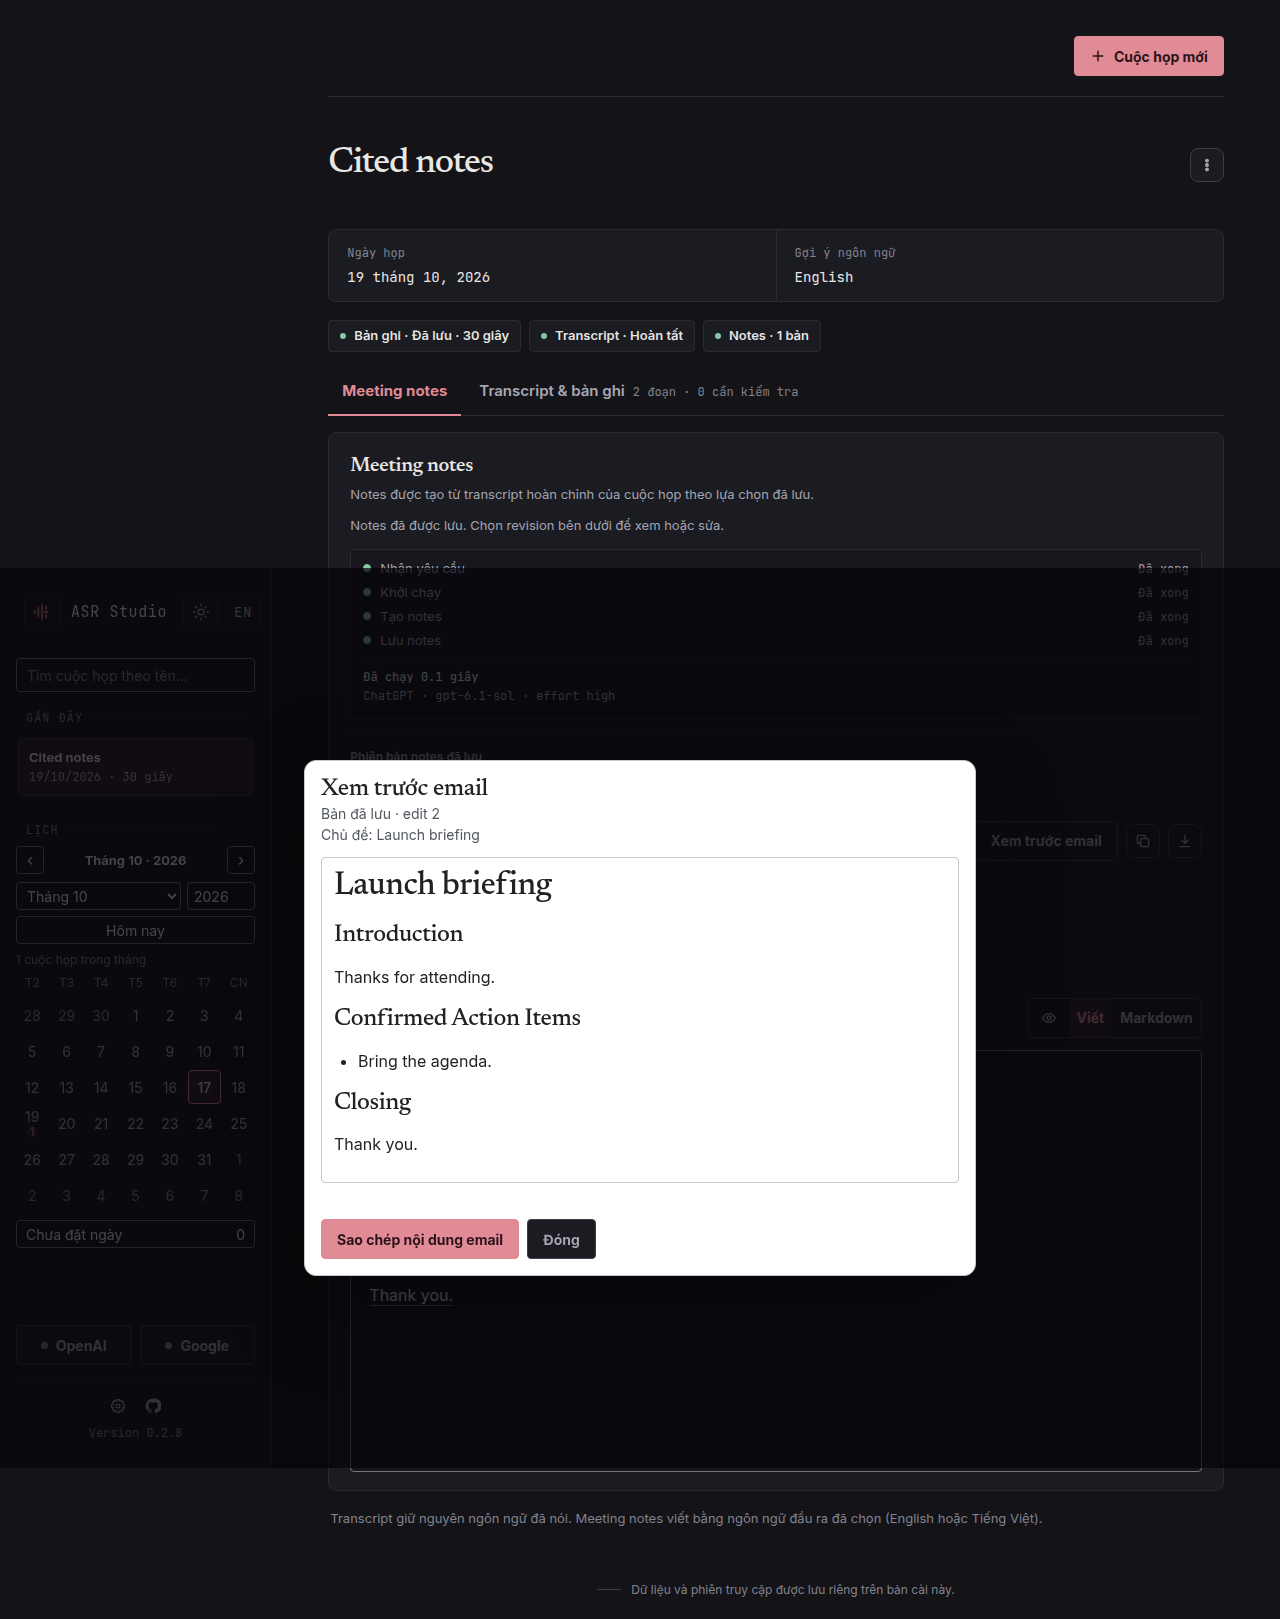
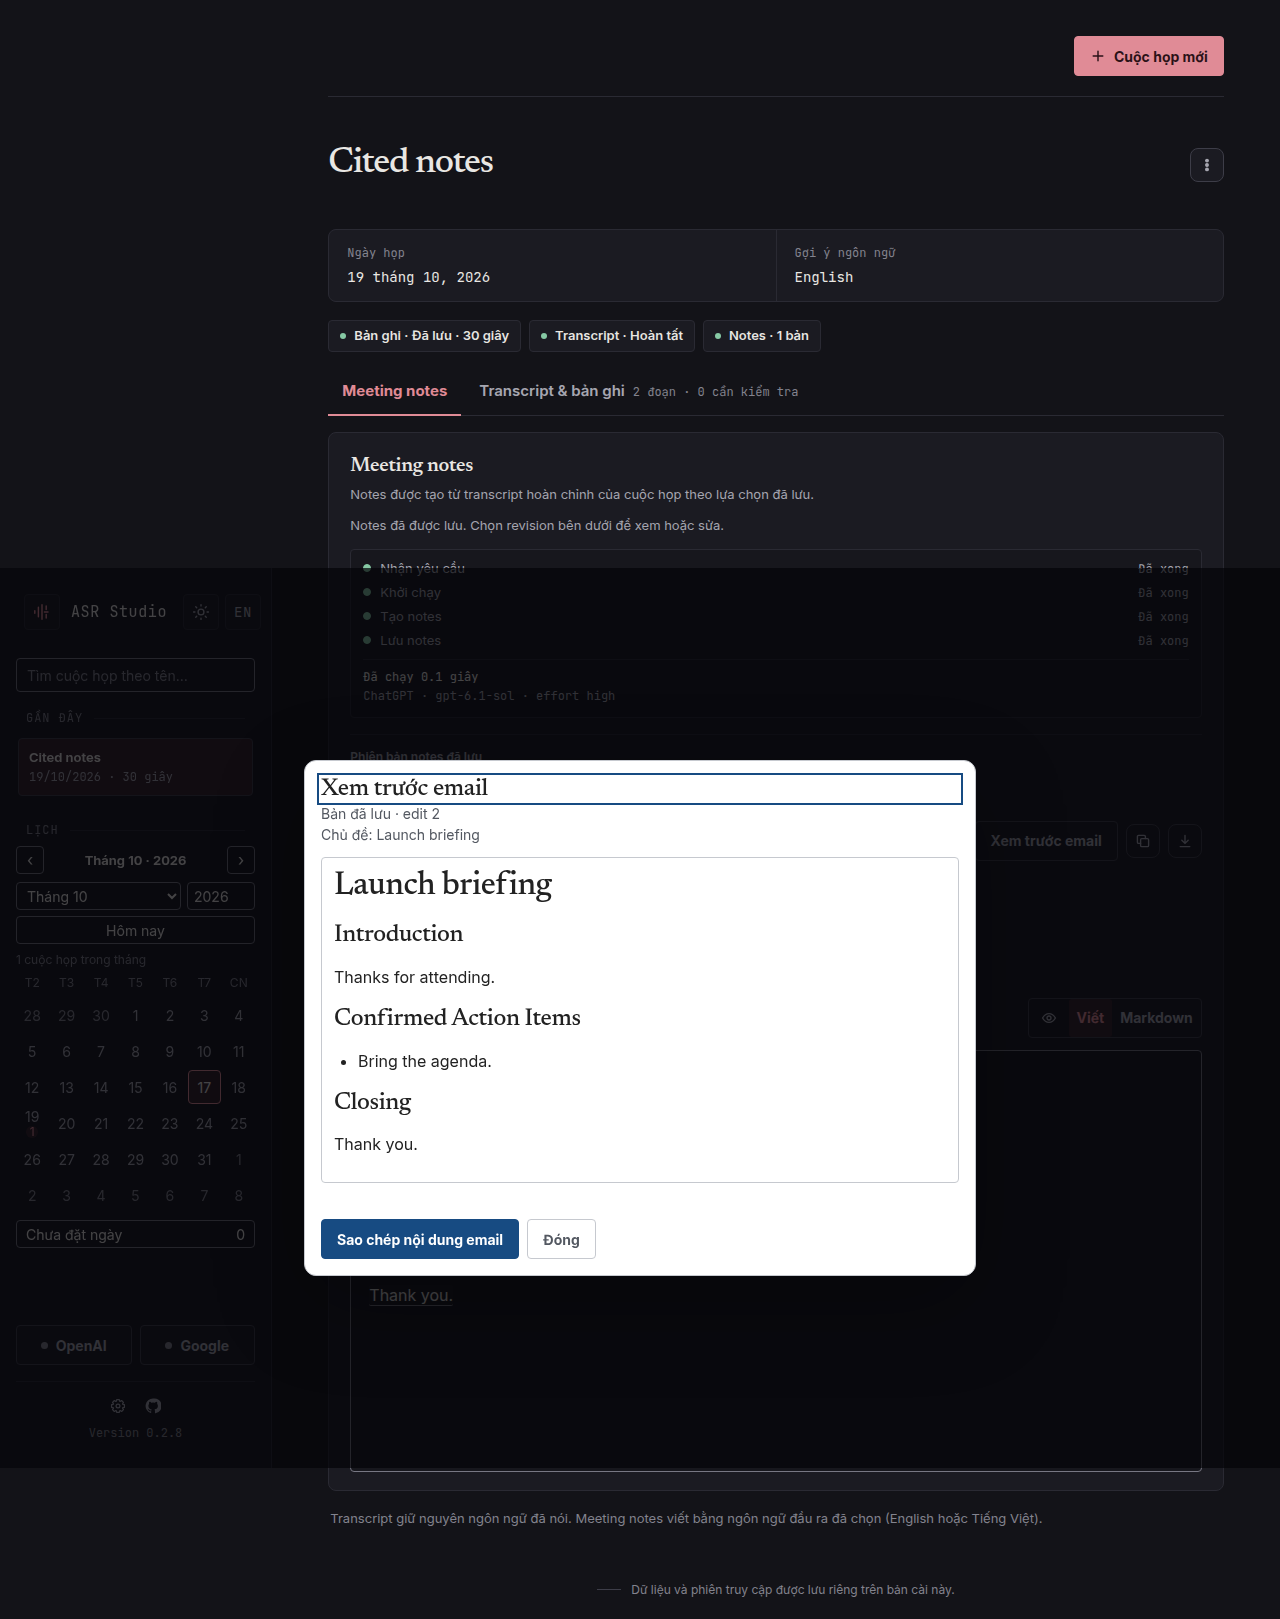
Harden issue 256 rich note preservation

Changed region(s): [[0.25, 0.7412, 0.4688, 0.803]]

diff --git a/src/asr_studio/web/notes-core.js b/src/asr_studio/web/notes-core.js
@@ -424,7 +424,7 @@ const referenceKey = (reference) => `${reference.meetingId}\u0000${reference.sna
 // shows none and never another bullet's. Each entry is used once, in order. Identical bullets cannot
 // be told apart, so a text keeps its chips only while the notes hold as many bullets with it as they
 // were made with: once one was edited or removed, or another was edited into a copy, none keeps a chip.
-const citationBoundary = "\u0000";
+const citationIgnore = "\u0001";
 
 function citedBullets(lines, citations) {
   const found = new Map();
@@ -442,8 +442,7 @@ function citedBullets(lines, citations) {
   const counts = new Map();
   let section = "";
   lines.forEach((line, index) => {
-    if (line === citationBoundary) {
-      section = `${citationBoundary}${index}`;
+    if (line === citationIgnore) {
       return;
     }
     const heading = line.match(/^(#{1,6})\s+(.+)$/);
@@ -451,7 +450,7 @@ function citedBullets(lines, citations) {
       section = heading[2].trim();
       return;
     }
-    const bullet = line.match(/^\s*[-*]\s+(.+)$/);
+    const bullet = line.match(/^ {0,3}[-*] +([^ ].*)$/);
     if (!bullet) return;
     const key = keyOf(section, bullet[1].trim());
     bullets.push({ index, key });
@@ -690,8 +689,10 @@ function markdownBlocks(markdown, revision, origin, presentation = "rich") {
   const raw = (start, end, { viewLines = false, citable = false } = {}) => {
     if (citable) {
       for (let index = start; index < end; index++) citationLines[index] = line(index);
-    } else if (!citationLines[start]) {
-      citationLines[start] = citationBoundary;
+    } else {
+      for (let index = start; index < end; index++) {
+        if (!citationLines[index]) citationLines[index] = citationIgnore;
+      }
     }
     const block = { kind: "raw", text: markdown.slice(lines[start].offset, lines[end - 1].offset + line(end - 1).length) };
     if (viewLines && presentation === "view") {
@@ -800,7 +801,11 @@ function markdownBlocks(markdown, revision, origin, presentation = "rich") {
     // Keep setext headings, reference definitions, HTML, multiline hard breaks and
     // GFM syntax outside the supported profile visible in their original spelling.
     const paragraph = lines.slice(index, end);
-    const hardBreak = paragraph.some(({ text: value }) => /(?: {2,}|\\)$/.test(value));
+    const hardBreak = paragraph.some(({ text: value }) => {
+      if (/ {2,}$/.test(value)) return true;
+      const backslashes = value.match(/\\+$/)?.[0] || "";
+      return backslashes.length % 2 === 1;
+    });
     if (unsupported || hardBreak || paragraph.some(({ text: value }) => /^ {0,3}[=-]+ *$/.test(value))) {
       blocks.push(raw(index, end, { viewLines: !unsupported && hardBreak }));
     } else {
@@ -849,6 +854,55 @@ function sharedEdges(before, after) {
   return [first, tail];
 }
 
+function sourceOffsets(node, source) {
+  if (node.kind === "code") return Array.from({ length: source.length + 1 }, (_, index) => index);
+  const offsets = [0];
+  for (let index = 0; index < source.length;) {
+    let end = index + 1;
+    if (source[index] === "\\" && escapedPunctuation.test(source[index + 1] || "")) end += 1;
+    else {
+      const space = source.slice(index).match(/^&#(?:32|9);/);
+      if (space) end = index + space[0].length;
+    }
+    offsets.push(end);
+    index = end;
+  }
+  return offsets;
+}
+
+function normalizeInteriorTrailingSpaces(source, raw, offsets, display, appended) {
+  if (!appended.trim()) return source;
+  const trailing = display.match(/[ \t]+$/)?.[0] || "";
+  if (!trailing) return source;
+  const first = display.length - trailing.length;
+  const encodedStart = offsets[first];
+  const encodedEnd = offsets[display.length];
+  const encoded = raw.slice(encodedStart, encodedEnd);
+  if (!/^(?:&#32;|&#9;)+$/.test(encoded)) return source;
+  const literal = encoded.replace(/&#32;/g, " ").replace(/&#9;/g, "\t");
+  return source.slice(0, encodedStart) + literal + source.slice(encodedEnd);
+}
+
+function richBlockShape(block) {
+  switch (block.kind) {
+    case "heading": return { kind: block.kind, level: block.level, nodes: block.nodes.length };
+    case "paragraph": return { kind: block.kind, lines: block.lines.map((line) => line.length) };
+    case "list": return { kind: block.kind, start: block.start, items: block.items.map((item) => item.nodes.length) };
+    case "table": return { kind: block.kind, align: block.align, rows: block.rows.map((row) => row.length) };
+    default: return { kind: block.kind };
+  }
+}
+
+function richStructureMatches(before, after, changedIndex, value) {
+  if (before.length !== after.length) return false;
+  if (before.some((block, index) => JSON.stringify(richBlockShape(block)) !== JSON.stringify(richBlockShape(after[index])))) return false;
+  const beforeNodes = before.flatMap(blockRuns);
+  const afterNodes = after.flatMap(blockRuns);
+  if (beforeNodes.length !== afterNodes.length) return false;
+  return beforeNodes.every((node, index) => node.kind === afterNodes[index].kind
+    && afterNodes[index].text === (index === changedIndex ? value : node.text));
+}
+
 // Textareas expose LF even when the server stores CRLF or CR. Keep separators in
 // the untouched prefix and suffix and use the document's separator for inserted lines.
 function rawTextareaEdit(markdown, value) {
@@ -866,24 +920,33 @@ function rawTextareaEdit(markdown, value) {
     + markdown.slice(offsets[before.length - tail]);
 }
 
-function escapeRichValue(value, node, markdown) {
+function escapeRichValue(value, node, markdown, { edgeStart = false, edgeEnd = false, tableCell = false } = {}) {
   if (node.kind === "code") return /[`\r\n]/.test(value) ? null : value;
-  const syntax = "\\`*_[]<>~&|";
-  let escaped = [...value].map((char) => syntax.includes(char) ? `\\${char}` : char).join("").replace(/\t/g, "&#9;");
-  const lineStart = markdown.lastIndexOf("\n", node.start - 1) + 1;
-  const atLineStart = markdown.slice(lineStart, node.start) === "";
-  if (node.kind === "text" && atLineStart) {
+  let escaped = value
+    .replace(/\\/g, "\\\\")
+    .replace(/([`*_\[\]<>])/g, "\\$1")
+    .replace(/&(?=(?:#\w+|[a-z]+);)/gi, "\\&")
+    .replace(/\t/g, "&#9;");
+  if (value.includes("~~")) escaped = escaped.replace(/~/g, "\\~");
+  if (tableCell) escaped = escaped.replace(/\|/g, "\\|");
+  if (edgeEnd) escaped = escaped.replace(/ +$/g, (spaces) => spaces.replace(/ /g, "&#32;"));
+  const lineStart = Math.max(markdown.lastIndexOf("\n", node.start - 1), markdown.lastIndexOf("\r", node.start - 1)) + 1;
+  const linePrefix = markdown.slice(lineStart, node.start);
+  const atLineStart = linePrefix === "";
+  const atListItemStart = /^ {0,3}(?:[-*+]|\d{1,9}[.)]) +$/.test(linePrefix);
+  if (node.kind === "text" && edgeStart && (atLineStart || atListItemStart)) {
     const ordered = value.match(/^\d{1,9}([.)]) /);
     if (ordered) {
       const marker = ordered[1];
       const position = ordered[0].indexOf(marker);
       escaped = escaped.slice(0, position) + `\\${marker}` + escaped.slice(position + 1);
-    } else if (/^(?:#|[-+]) /.test(value)) {
+    } else if (/^(?:#{1,6}|[-+>]) /.test(value) && !escaped.startsWith("\\")) {
       escaped = `\\${escaped}`;
     }
   }
   if (["strong", "em", "link"].includes(node.kind)) {
-    escaped = escaped.replace(/^ +| +$/g, (spaces) => spaces.replace(/ /g, "&#32;"));
+    if (edgeStart) escaped = escaped.replace(/^ +/g, (spaces) => spaces.replace(/ /g, "&#32;"));
+    if (edgeEnd) escaped = escaped.replace(/ +$/g, (spaces) => spaces.replace(/ /g, "&#32;"));
   }
   return escaped;
 }
@@ -894,9 +957,36 @@ function richMarkdownEdit(state, action, revision, draft) {
   const nodes = blocks.flatMap(blockRuns);
   const node = nodes[action.index];
   if (!canEditRich(blocks) || !node || node.text !== action.before || node.text === action.value) return null;
-  const escaped = escapeRichValue(action.value, node, draft.value);
+  let targetBlock;
+  let runOffset = 0;
+  for (const block of blocks) {
+    const blockNodes = blockRuns(block);
+    if (action.index < runOffset + blockNodes.length) {
+      targetBlock = block;
+      break;
+    }
+    runOffset += blockNodes.length;
+  }
+  const raw = draft.value.slice(node.start, node.end);
+  const offsets = sourceOffsets(node, raw);
+  if (offsets.length !== node.text.length + 1) return null;
+  const [first, tail] = sharedEdges(node.text, action.value);
+  const changed = action.value.slice(first, action.value.length - tail);
+  const escaped = escapeRichValue(changed, node, draft.value, {
+    edgeStart: first === 0,
+    edgeEnd: tail === 0,
+    tableCell: targetBlock?.kind === "table",
+  });
   if (escaped === null) return null;
-  return draft.value.slice(0, node.start) + escaped + draft.value.slice(node.end);
+  const nodeSource = draft.value.slice(node.start, node.start + offsets[first]) + escaped
+    + draft.value.slice(node.start + offsets[node.text.length - tail], node.end);
+  const normalizedSource = first === node.text.length && tail === 0 && action.value.length > first
+    ? normalizeInteriorTrailingSpaces(nodeSource, raw, offsets, node.text, action.value.slice(first)) : nodeSource;
+  const candidate = draft.value.slice(0, node.start) + normalizedSource
+    + draft.value.slice(node.end);
+  const reparsed = markdownBlocks(candidate, revision, state.origin);
+  if (!canEditRich(reparsed) || !richStructureMatches(blocks, reparsed, action.index, action.value)) return null;
+  return candidate;
 }
 
 const escapeHtml = (value) => value.replace(/[&<>"']/g, (char) => ({

diff --git a/src/asr_studio/web/notes.css b/src/asr_studio/web/notes.css
@@ -884,12 +884,34 @@ a.notes-citation-chip:focus-visible {
 /* Saved rich/email previews mirror the neutral document written to the clipboard, even in dark mode. */
 .notes-copy-dialog[data-copy-kind] {
   color-scheme: light;
+  --surface: #fff;
+  --surface-subtle: #f7f8fa;
+  --surface-raised: #fff;
+  --ink: #222;
+  --ink-2: #535861;
+  --ink-3: #60656d;
+  --text: #222;
+  --muted: #535861;
+  --accent: #174b82;
+  --accent-hover: #10395f;
+  --accent-soft: #e7eff7;
+  --accent-contrast: #fff;
+  --teal: #174b82;
+  --hairline: #d5d8dd;
+  --line-strong: #c6c9cf;
+  --control-border: #7b838e;
   background: #fff;
   color: #222;
   border-color: #c6c9cf;
 }
 
+.notes-copy-dialog[data-copy-kind] .notes-copy-header h2,
 .notes-copy-dialog[data-copy-kind] .notes-copy-header p {
+  color: #222;
+}
+
+.notes-copy-dialog[data-copy-kind] .notes-copy-header p,
+.notes-copy-dialog[data-copy-kind] #notes-copy-result {
   color: #535861;
 }
 
@@ -901,6 +923,12 @@ a.notes-citation-chip:focus-visible {
 
 .notes-copy-dialog[data-copy-kind] .notes-copy-document a {
   color: #174b82;
+}
+
+.notes-copy-dialog[data-copy-kind] button:focus,
+.notes-copy-dialog[data-copy-kind] [tabindex]:focus {
+  outline: 2px solid #174b82;
+  outline-offset: 2px;
 }
 
 .notes-copy-header {

diff --git a/tests/test_browser_notes_editor.py b/tests/test_browser_notes_editor.py
@@ -159,6 +159,39 @@ def test_rich_keystrokes_keep_clean_markdown_and_block_structure_enter(live, sig
     assert r"\." not in stored
 
 
+def test_rich_incremental_appends_keep_structure_and_source_bytes(live, signed_in):
+    _context, page = signed_in()
+    markdown = "# Plan\n\nHello\n\n- one\n\n| A | B |\n| --- | --- |\n| x | y |\n"
+    _, revision, _, _ = _open_notes(live, page, lambda *_: markdown)
+    page.get_by_role("button", name="Viết", exact=True).click()
+    editor = page.locator("#notes-rich-editor")
+
+    def append(locator, value):
+        locator.click()
+        page.keyboard.press("End")
+        page.keyboard.type(value)
+
+    heading = editor.locator("h4 [contenteditable='plaintext-only']")
+    paragraph = editor.locator("p [contenteditable='plaintext-only']")
+    bullet = editor.get_by_role("listitem").get_by_role("textbox")
+    cell = editor.get_by_role("cell", name="x").get_by_role("textbox")
+    # A space typed at a run edge is temporarily entity-encoded so it cannot
+    # become Markdown structure. The next keystroke must normalize it once it
+    # is interior, while keeping the surrounding source bytes untouched.
+    runs = ((heading, "three"), (paragraph, "world"), (bullet, "more"), (cell, "value"))
+    for locator, word in runs:
+        append(locator, " ")
+        append(locator, word)
+    expect(page.locator("#notes-rich-fallback")).to_be_hidden()
+    expected = markdown.replace("# Plan", "# Plan three").replace("Hello", "Hello world")
+    expected = expected.replace("- one", "- one more").replace("| x |", "| x value |")
+    with page.expect_response(lambda response: response.request.method == "PATCH") as saved:
+        page.locator("#notes-save").click()
+    assert saved.value.ok
+    assert saved.value.request.post_data_json["markdown"] == expected
+    assert get_note(live.settings.data_dir, revision["id"])["markdown"] == expected
+
+
 def test_rich_invalid_code_input_reverts_and_ime_enter_is_allowed(live, signed_in):
     _context, page = signed_in()
     markdown = "# Notes\n\nUse `npm ci`.\n"
@@ -183,6 +216,49 @@ def test_rich_invalid_code_input_reverts_and_ime_enter_is_allowed(live, signed_i
         }"""
     )
     assert composing is False
+
+
+def test_view_citation_code_boundaries_and_literal_rich_markers(live, signed_in):
+    _context, page = signed_in()
+    fence = "`" * 3
+
+    def fenced_before_bullet(markdown, *_):
+        return markdown.replace(
+            "- The team reviewed its launch plan.",
+            f"{fence}text\nExample code\n{fence}\n\n- The team reviewed its launch plan.",
+            1,
+        )
+
+    _open_notes(live, page, fenced_before_bullet)
+    preview = page.locator("#notes-preview")
+    expect(preview.locator("pre")).to_contain_text("Example code")
+    bullet = preview.get_by_role("listitem").filter(has_text="The team reviewed its launch plan.")
+    expect(bullet.locator(".notes-citation-chip")).to_have_count(1)
+    expect(preview.locator("pre").locator(".notes-citation-chip")).to_have_count(0)
+
+    def indented_code(markdown, *_):
+        return (
+            "# Meeting Notes\n\n## Overview\n\n- Other bullet.\n\n"
+            "      - The team reviewed its launch plan.\n"
+        )
+
+    _open_notes(live, page, indented_code)
+    code = page.locator("#notes-preview pre").filter(has_text="The team reviewed its launch plan.")
+    expect(code).to_be_visible()
+    expect(code.locator(".notes-citation-chip")).to_have_count(0)
+
+    _open_notes(live, page, lambda *_: "# Notes\n\nOrdinary text.\n")
+    page.get_by_role("button", name="Viết", exact=True).click()
+    paragraph = page.locator("#notes-rich-editor p [contenteditable='plaintext-only']")
+    paragraph.fill("## Literal text")
+    with page.expect_response(lambda response: response.request.method == "PATCH") as saved:
+        page.locator("#notes-save").click()
+    assert saved.value.ok
+    page.get_by_role("button", name="Xem", exact=True).click()
+    expect(
+        page.locator("#notes-preview").get_by_role("heading", name="Literal text")
+    ).to_have_count(0)
+    expect(page.locator("#notes-preview p").filter(has_text="## Literal text")).to_have_count(1)
 
 
 def test_mixed_markdown_falls_back_without_hiding_view_citations_or_source_links(live, signed_in):
@@ -319,6 +395,23 @@ def test_email_preview_pins_saved_revision_and_reports_clipboard_outcomes(live, 
         "element => [getComputedStyle(element).backgroundColor, getComputedStyle(element).color]"
     )
     assert colors == ["rgb(255, 255, 255)", "rgb(34, 34, 34)"]
+    chrome_colors = dialog.locator(
+        "#notes-copy-result, #notes-copy-confirm, #notes-copy-close"
+    ).evaluate_all(
+        "elements => elements.map(element => ["
+        "getComputedStyle(element).color, getComputedStyle(element).backgroundColor])"
+    )
+    assert chrome_colors == [
+        ["rgb(83, 88, 97)", "rgba(0, 0, 0, 0)"],
+        ["rgb(255, 255, 255)", "rgb(23, 75, 130)"],
+        ["rgb(83, 88, 97)", "rgb(255, 255, 255)"],
+    ]
+    confirm = dialog.get_by_role("button", name="Sao chép nội dung email")
+    confirm.focus()
+    assert (
+        confirm.evaluate("element => getComputedStyle(element).outlineColor") == "rgb(23, 75, 130)"
+    )
+    dialog.get_by_role("heading", name="Xem trước email").focus()
     expect(dialog.get_by_role("heading", name="Xem trước email")).to_be_focused()
     expect(dialog.locator("#notes-copy-subject")).to_have_text("Chủ đề: Launch briefing")
     expect(dialog.get_by_role("region", name="Introduction")).to_be_visible()
